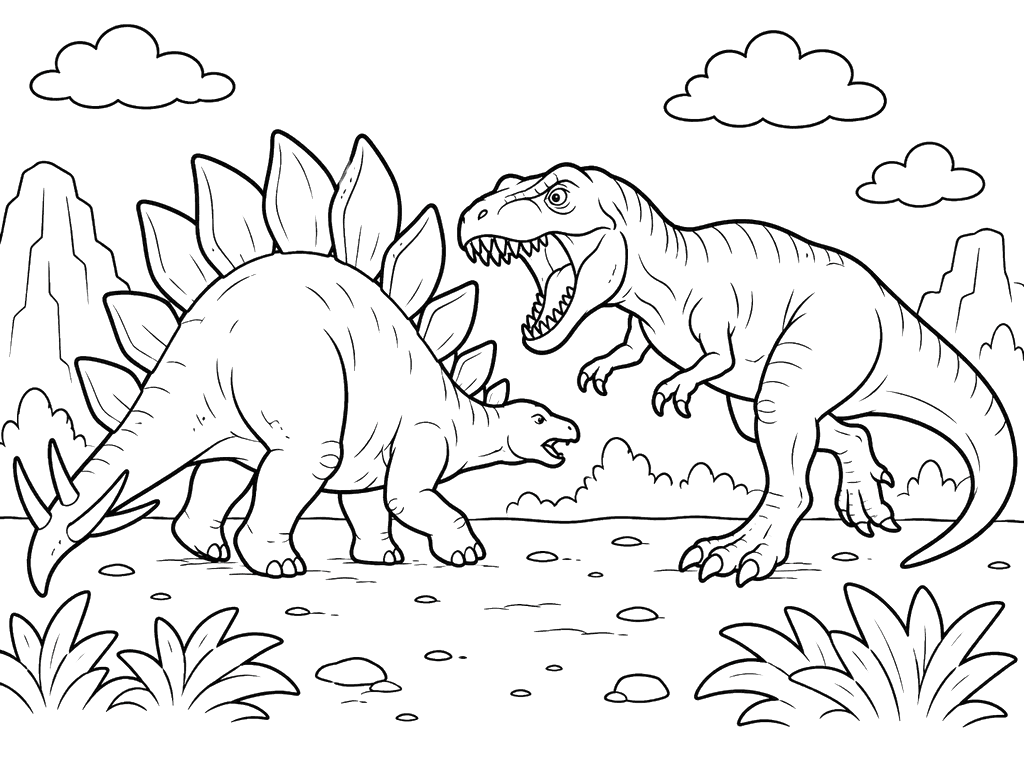
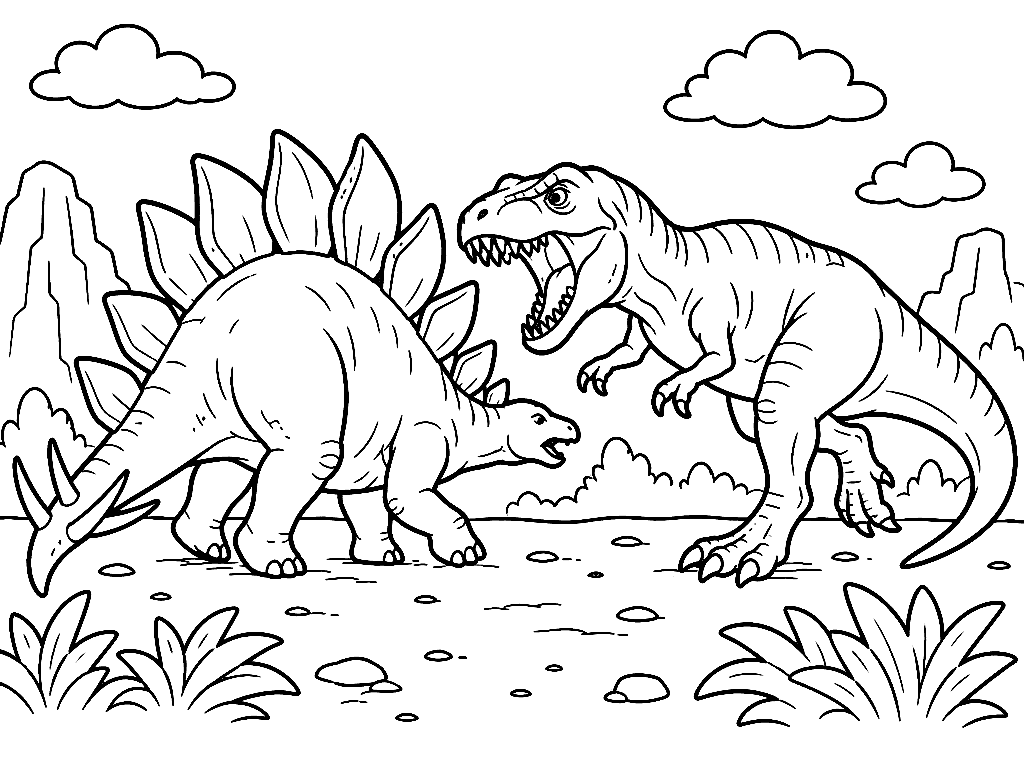
fix: アロサウルスの歯が塗れない不具合と、線の中のノイズの穴を焼き込み時に防ぐ
sealPinholes() の小さい穴・細い割れ目判定が、密集した細かい歯を線の障壁に
飲み込んでしまい、タップしても塗れず周囲が塗られてしまっていた
（shared-allosaurus-vs-stegosaurus.png のみ手直し）。

あわせて、この種のノイズの穴を実行時のパッチだけでなく焼き込み時に防ぐため
despeckleAlpha() を追加し、共有下絵CLIとユーザーのアップロード変換の両方に
配線。パレットPNG圧縮のディザリングも無効化した。

Closes #57

diff --git a/src/level-core.ts b/src/level-core.ts
@@ -91,6 +91,65 @@ export function writeLinePixel(px: { [i: number]: number }, i: number): number {
   return a;
 }
 
+/** ノイズの穴とみなす面積の上限。paint.ts の PINHOLE_MAX(=12) と同じ考え方の値
+ *  （小さい穴＝ノイズという判断基準を合わせている）。 */
+const DESPECKLE_MAX_AREA = 12;
+
+/**
+ * 線の中に孤立して残る、面積の小さい「ノイズの穴」を塗りつぶす。
+ *
+ * 減色や元画像のざらつきで、線の内部に完全透明の画素が点々と残ることがある
+ * (paint.ts の sealPinholes 参照)。あちらは塗りの境界計算だけに効く実行時の
+ * 対症療法なので、下絵そのものの見た目には穴が残ったまま。ここでは焼き込み時
+ * (下絵の生成・アップロード時) に直接埋めることで、見た目も塗り判定も直す。
+ *
+ * sealPinholes にはもう1つ「幅1〜2pxの細い割れ目」を塞ぐ判定もあるが、それは
+ * 下絵ごとに正当な形状のことがある(archaeopteryx の羽根の間の割れ目など)ため、
+ * ここでは扱わない。一括で焼き込むと、下絵ごとの見た目チェックなしに線の形が
+ * 変わってしまう。
+ *
+ * alpha を直接書き換える(新しい配列は作らない)。
+ */
+export function despeckleAlpha(alpha: Uint8Array, w: number, h: number): void {
+  const total = w * h;
+  const seen = new Uint8Array(total);
+  const stack = new Int32Array(total);
+  const members = new Int32Array(total);
+  for (let start = 0; start < total; start++) {
+    if (alpha[start] >= INK_ALPHA || seen[start]) continue;
+    let sp = 0;
+    let mc = 0;
+    stack[sp++] = start;
+    seen[start] = 1;
+    let touchesEdge = false;
+    while (sp > 0) {
+      const p = stack[--sp];
+      members[mc++] = p;
+      const x = p % w;
+      const y = (p / w) | 0;
+      if (x === 0 || y === 0 || x === w - 1 || y === h - 1) touchesEdge = true;
+      if (x > 0 && alpha[p - 1] < INK_ALPHA && !seen[p - 1]) {
+        seen[p - 1] = 1;
+        stack[sp++] = p - 1;
+      }
+      if (x < w - 1 && alpha[p + 1] < INK_ALPHA && !seen[p + 1]) {
+        seen[p + 1] = 1;
+        stack[sp++] = p + 1;
+      }
+      if (y > 0 && alpha[p - w] < INK_ALPHA && !seen[p - w]) {
+        seen[p - w] = 1;
+        stack[sp++] = p - w;
+      }
+      if (y < h - 1 && alpha[p + w] < INK_ALPHA && !seen[p + w]) {
+        seen[p + w] = 1;
+        stack[sp++] = p + w;
+      }
+    }
+    if (touchesEdge || mc > DESPECKLE_MAX_AREA) continue;
+    for (let i = 0; i < mc; i++) alpha[members[i]] = 255;
+  }
+}
+
 /**
  * 等倍のアルファを面積平均で ANALYZE_W x ANALYZE_H に縮小する。
  *

diff --git a/src/template.ts b/src/template.ts
@@ -1,7 +1,7 @@
 // 下絵メーカー: アップロード画像の下絵化（1024x768 化・白背景の透明化・線を黒に統一）と、
 // 外部画像生成AI用の英語プロンプト生成、クリップボードコピーのユーティリティ。
 import { CANVAS_W, CANVAS_H } from "./lineart";
-import { writeLinePixel, levelFromAlpha, type Level } from "./level-core";
+import { writeLinePixel, despeckleAlpha, levelFromAlpha, type Level } from "./level-core";
 
 /**
  * File を Image 要素に読み込む。
@@ -61,6 +61,11 @@ function toTransparent(img: HTMLImageElement): { imageUrl: string; alpha: Uint8A
   const alpha = new Uint8Array(CANVAS_W * CANVAS_H);
   for (let i = 0, p = 0; i < px.length; i += 4, p++) {
     alpha[p] = writeLinePixel(px, i);
+  }
+  // 減色や元画像のざらつきで線の中に残る小さいノイズの穴を埋める
+  despeckleAlpha(alpha, CANVAS_W, CANVAS_H);
+  for (let i = 0, p = 0; i < px.length; i += 4, p++) {
+    px[i + 3] = alpha[p];
   }
   ctx.putImageData(data, 0, 0);
   return { imageUrl: canvas.toDataURL("image/png"), alpha };
